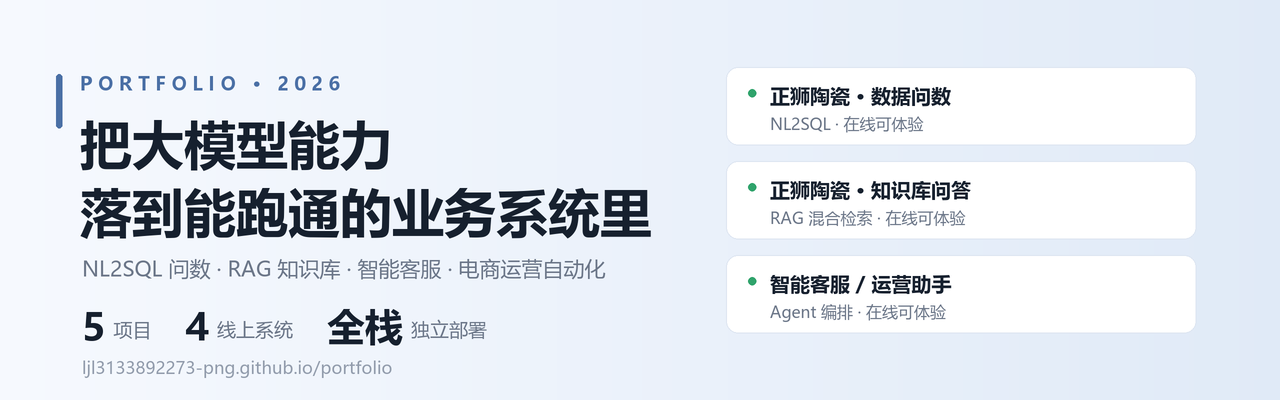
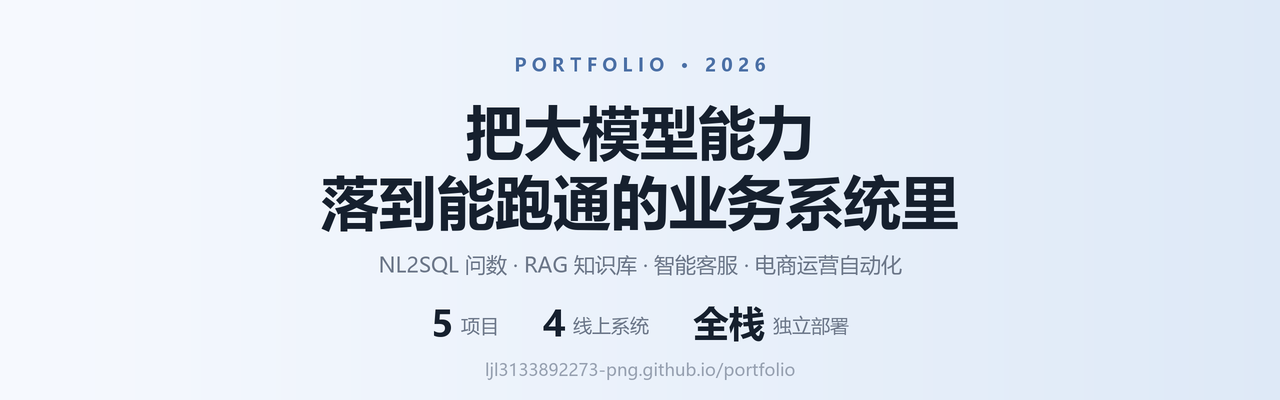
style: 精简主页内容，仅保留横幅与进入按钮
- 删除「4 个系统可直接在线体验」说明表格与提示块
- 删除「在线作品集 · 备用入口 · 邮箱」链接行
- 删除横幅右侧三个系统卡，改为居中排版、内容占满整幅

diff --git a/README.md b/README.md
@@ -10,33 +10,4 @@
   <img src="assets/cta.png" alt="进入作品集" height="56">
 </a>
 
-<p>
-  <a href="https://ljl3133892273-png.github.io/portfolio/"><b>在线作品集</b></a>
-  &nbsp;·&nbsp;
-  <a href="http://81.70.85.14:8090/">备用入口</a>
-  &nbsp;·&nbsp;
-  <a href="mailto:ljl3133892273@gmail.com">ljl3133892273@gmail.com</a>
-</p>
-
-</div>
-
----
-
-### 4 个系统可直接在线体验，无需申请
-
-作品集里每个项目都有「访问线上系统」按钮，点开就能用，不用注册、不用等我开权限。
-
-| 系统 | 做什么 | 技术要点 |
-| --- | --- | --- |
-| **正狮陶瓷 · 数据问数** | 用一句中文问业务数据，自动生成 SQL 并返回结果 | NL2SQL · 元数据召回 · SQL 校验 · 结果回填 |
-| **正狮陶瓷 · 知识库问答** | 上传产品手册，回答问题并给出来源引用 | 稠密 + BM25 混合检索 · 引用溯源 |
-| **电商智能客服** | 意图识别 → 澄清 → 知识检索 → 转人工的完整闭环 | 领域驱动分层 · 对话状态管理 |
-| **AI 电商运营助手** | 商品文案、主图、短视频素材批量生成 | 异步任务队列 · 多模态生成 |
-
-> 演示环境跑在一台 4 GiB 的云主机上，资源吃紧但都能用。如果某个入口点不开，多半是正在重启，等十几秒再试。
-
----
-
-<div align="center">
-<sub>Python · FastAPI · LangChain / LangGraph · SQLAlchemy · Milvus / Qdrant · Next.js · Docker</sub>
 </div>
